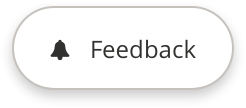
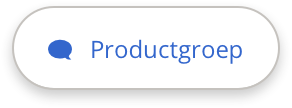
copy changes

diff --git a/feedback_custom.framer/framer/framer.generated.js b/feedback_custom.framer/framer/framer.generated.js
@@ -518,8 +518,8 @@ window.__imported__["feedback/layers.json.js"] = [
           "path" : "images\/Layer-pilotBtn-BE1789F4-D169-46B5-8587-D65F599E2064.png",
           "frame" : {
             "y" : 931,
-            "x" : 889,
-            "width" : 123,
+            "x" : 867,
+            "width" : 146,
             "height" : 54
           }
         },
@@ -530,8 +530,8 @@ window.__imported__["feedback/layers.json.js"] = [
         },
         "layerFrame" : {
           "y" : 931,
-          "x" : 889,
-          "width" : 123,
+          "x" : 867,
+          "width" : 146,
           "height" : 54
         },
         "name" : "pilotBtn"

diff --git a/feedback_custom.framer/imported/feedback@2x/layers.json.js b/feedback_custom.framer/imported/feedback@2x/layers.json.js
@@ -13,8 +13,8 @@ window.__imported__["feedback/layers.json.js"] = [
           "path" : "images\/Layer-pilotBtn-BE1789F4-D169-46B5-8587-D65F599E2064.png",
           "frame" : {
             "y" : 931,
-            "x" : 889,
-            "width" : 123,
+            "x" : 867,
+            "width" : 146,
             "height" : 54
           }
         },
@@ -25,8 +25,8 @@ window.__imported__["feedback/layers.json.js"] = [
         },
         "layerFrame" : {
           "y" : 931,
-          "x" : 889,
-          "width" : 123,
+          "x" : 867,
+          "width" : 146,
           "height" : 54
         },
         "name" : "pilotBtn"
